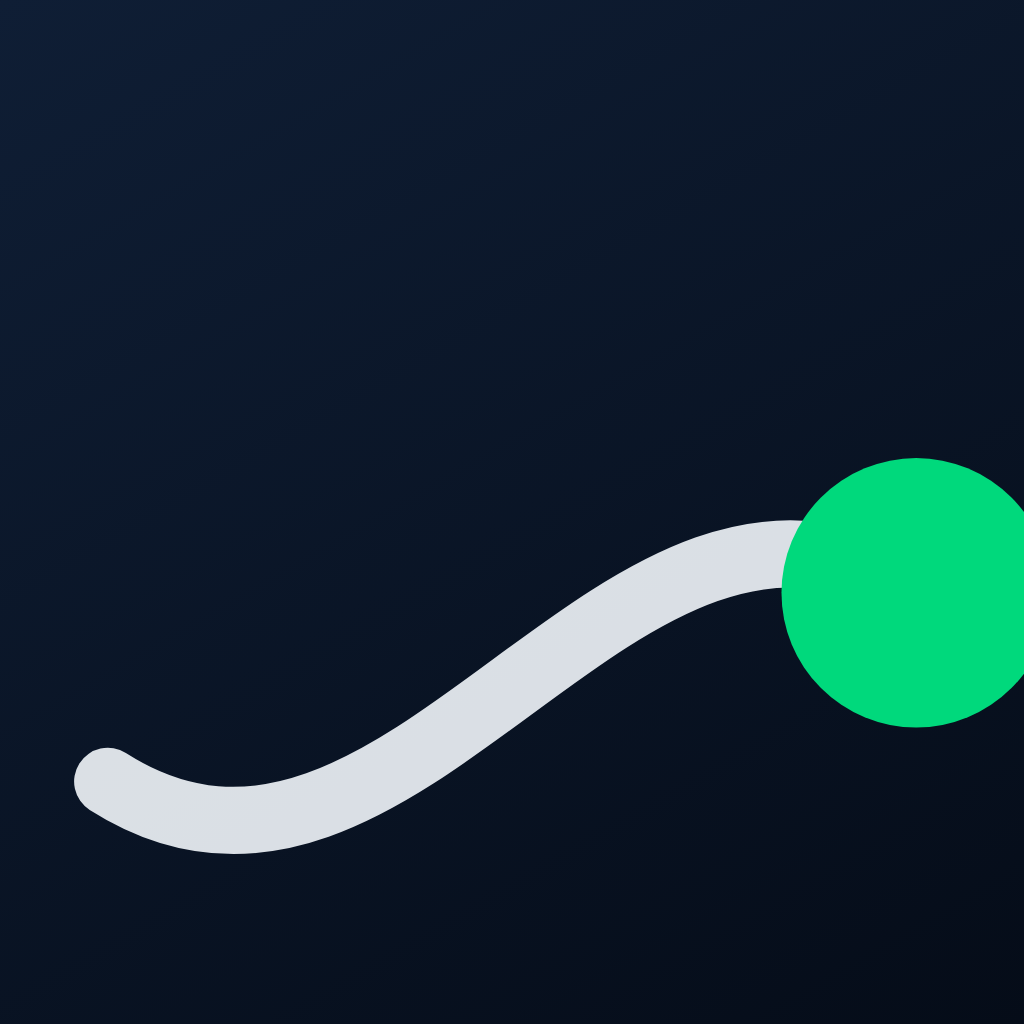
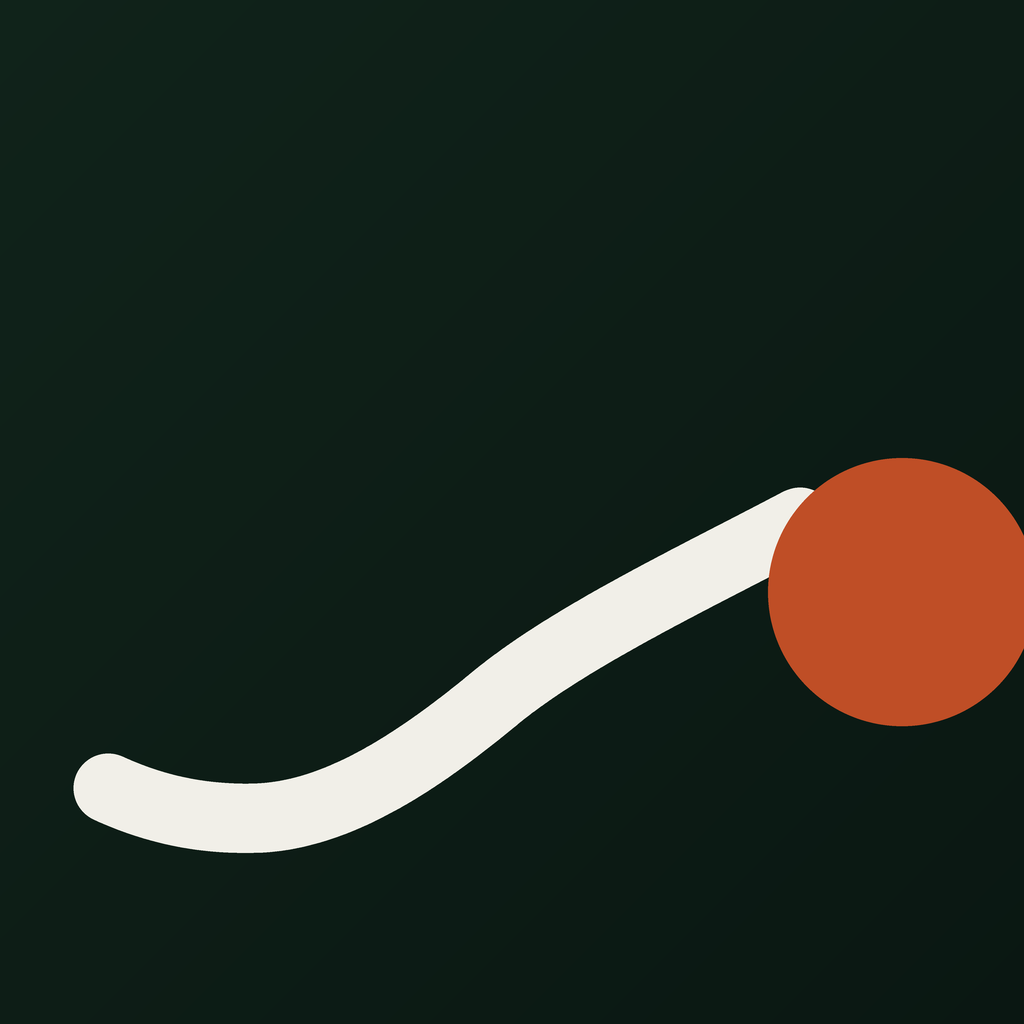
Bring the driver app into the same brand as the site
The mark. The launcher icon and the favicon are the same artwork — the same
bezier route, the same dot at (902,592) r134 in a shared 1024 space — but
they had drifted to different colours: navy ground with a jade dot on the
phone, green-black with a laterite dot in the browser. That is the one
element that should be identical on every surface, and I am the one who
broke it when the favicon was recoloured. icon.png is regenerated from the
same geometry in the site's palette, so it is a recolour rather than a
redraw and the composition that shipped is unchanged.

Measuring it turned up a real bug alongside. adaptiveIcon.foregroundImage
pointed at icon.png, which is full-bleed, and Android's launcher mask keeps
only the middle ~66% of an adaptive icon. The dot sits at x 768-1036 of
1024 — entirely outside that safe zone — so on Android the destination
marker was being cropped to a sliver at the edge with the curve running
off-frame. adaptive-icon.png is the same mark scaled to 0.709 and centred,
which is what an adaptive foreground is supposed to be.

The ground. Navy to green-black, so the app stops being a blue island next
to the site and the board. It stays dark, which is right for a cab at night
and for glare through a windscreen; only the hue moved.

Each step is solved for equal RELATIVE LUMINANCE against the navy it
replaces, not equal HSL lightness, and that distinction is the whole job.
Green carries a 0.7152 luminance coefficient against blue's 0.0722, so a
[…]

diff --git a/kigali-freight-driver/lib/theme.ts b/kigali-freight-driver/lib/theme.ts
@@ -1,11 +1,11 @@
 // Inzira driver app visual system, per the dispatcher-provided
-// design handoff: Electric Jade on a deep navy-black ground, with layered
+// design handoff: Electric Jade on a deep green-black ground, with layered
 // surfaces for elevation instead of one flat dark background. Gold is
 // reserved for earnings/highlight metrics only, red for safety/emergency
 // only — neither should leak into general UI the way `primary` does.
 export const theme = {
   colors: {
-    // Depth is carried by surface tint, not shadow. On a #050C18 ground a
+    // Depth is carried by surface tint, not shadow. On a #060d0b ground a
     // drop shadow has nothing darker to fall on: raise it far enough to
     // see and it stops being a shadow and becomes a grey haze. A hairline
     // border plus a lighter fill also survives direct sunlight through a
@@ -26,24 +26,40 @@ export const theme = {
     // Anything nested inside another surface uses panelSoft instead: it is
     // translucent, so it lightens whatever it happens to sit on rather
     // than needing a step of its own per parent.
-    bg: '#050C18',
-    surface1: '#0A1628',
-    surface2: '#0F1E35',
-    surface3: '#162440',
-    panel: 'rgba(15, 30, 53, 0.94)',
-    panelSoft: 'rgba(242, 246, 251, 0.05)',
+    // Green-black rather than navy, so the app sits in the same colour
+    // world as inzira.systems and the dispatcher board instead of a blue
+    // one of its own. The ground stays dark — that is correct for a cab at
+    // night and for glare through a windscreen — only the hue moved.
+    //
+    // Each step was solved for equal RELATIVE LUMINANCE against the navy it
+    // replaces, not equal HSL lightness. That distinction is the whole
+    // exercise: green carries a 0.7152 coefficient against blue's 0.0722,
+    // so a green at matching HSL lightness is far brighter in luminance
+    // terms. Matching lightness first compressed every contrast ratio and
+    // pushed danger-on-surface3 to 3.56, under AA. Solved on luminance, the
+    // surfaces land within 0.0002 of the originals and the elevation ladder
+    // holds at 1.086/1.077/1.089 against the old 1.080/1.086/1.082.
+    bg: '#060d0b',
+    surface1: '#0b1913',
+    surface2: '#0f211a',
+    surface3: '#122920',
+    panel: 'rgba(15, 33, 26, 0.94)',
+    panelSoft: 'rgba(241, 239, 232, 0.05)',
     primary: '#00D97C',
     primaryDeep: '#00A85F',
     accent: '#3B9EFF',
     gold: '#F0C040',
     danger: '#FF4444',
-    text: '#F2F6FB',
-    muted: '#7C8AA6',
-    border: 'rgba(242, 246, 251, 0.10)',
+    // The website's own onink/onink-soft. muted gains from the swap rather
+    // than losing: #8ba295 is lighter than the blue-grey it replaces, so it
+    // goes from 4.44:1 on surface3 — borderline — to 5.65:1.
+    text: '#f1efe8',
+    muted: '#8ba295',
+    border: 'rgba(241, 239, 232, 0.10)',
     success: '#00D97C',
     warning: '#F5A623',
-    paper: '#EDF3FA',
-    ink: '#050C18',
+    paper: '#e9e5db',
+    ink: '#060d0b',
   },
   fonts: {
     // One Outfit weight, not two. 800 and 900 were both loaded but are

diff --git a/kigali-freight-driver/app.config.ts b/kigali-freight-driver/app.config.ts
@@ -102,9 +102,16 @@ const config: ExpoConfig = {
     // Edge-to-edge is mandatory (no opt-out) as of Android 16 / this SDK —
     // the old edgeToEdgeEnabled toggle was removed since there's nothing
     // left to toggle.
+    // A separate foreground from icon.png, which is full-bleed. Android's
+    // launcher mask keeps only the middle ~66% of an adaptive icon and crops
+    // the rest, and the mark's destination dot sits at x 768-1036 of the
+    // 1024 source — entirely outside that. Pointing this at icon.png, as it
+    // did, cropped the dot to a sliver at the edge and left the curve
+    // running off-frame. adaptive-icon.png is the same mark scaled to 0.709
+    // and centred so the whole of it survives the mask.
     adaptiveIcon: {
-      foregroundImage: './assets/icon.png',
-      backgroundColor: '#050C18',
+      foregroundImage: './assets/adaptive-icon.png',
+      backgroundColor: '#0a1712',
     },
     // EAS Build injects GOOGLE_SERVICES_JSON as a path to the securely
     // uploaded file (set via `eas env:create`) since the real file is
@@ -148,7 +155,7 @@ const config: ExpoConfig = {
         //
         // Both screens are then this same flat colour, so the handoff from
         // native splash to JS has nothing to flash.
-        backgroundColor: '#050C18',
+        backgroundColor: '#0a1712',
         image: './assets/splash-blank.png',
         imageWidth: 200,
         resizeMode: 'contain',
